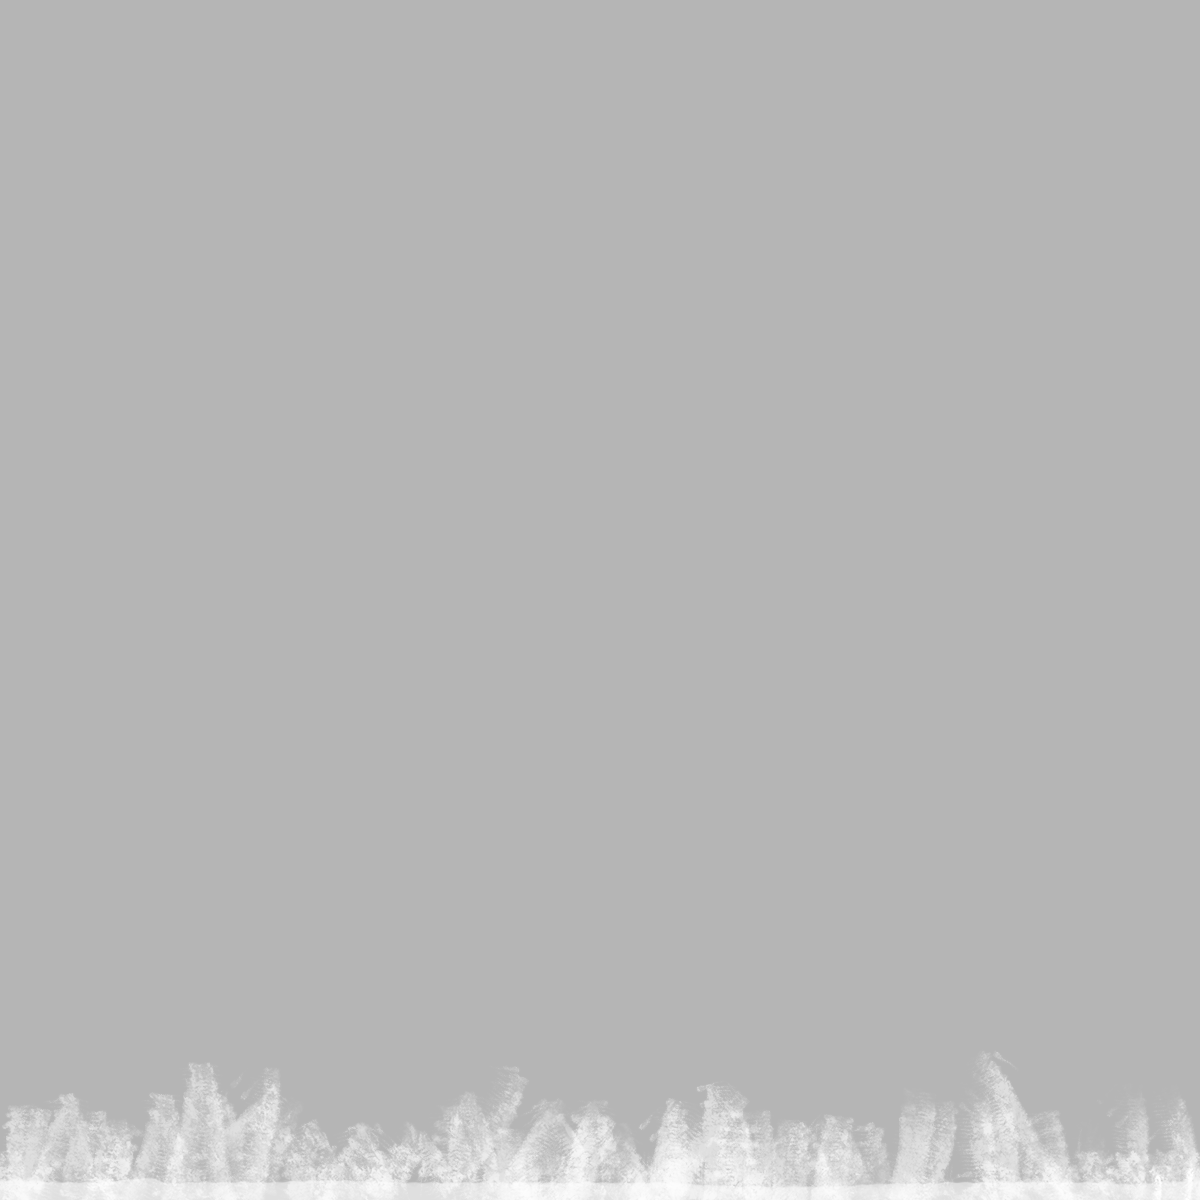
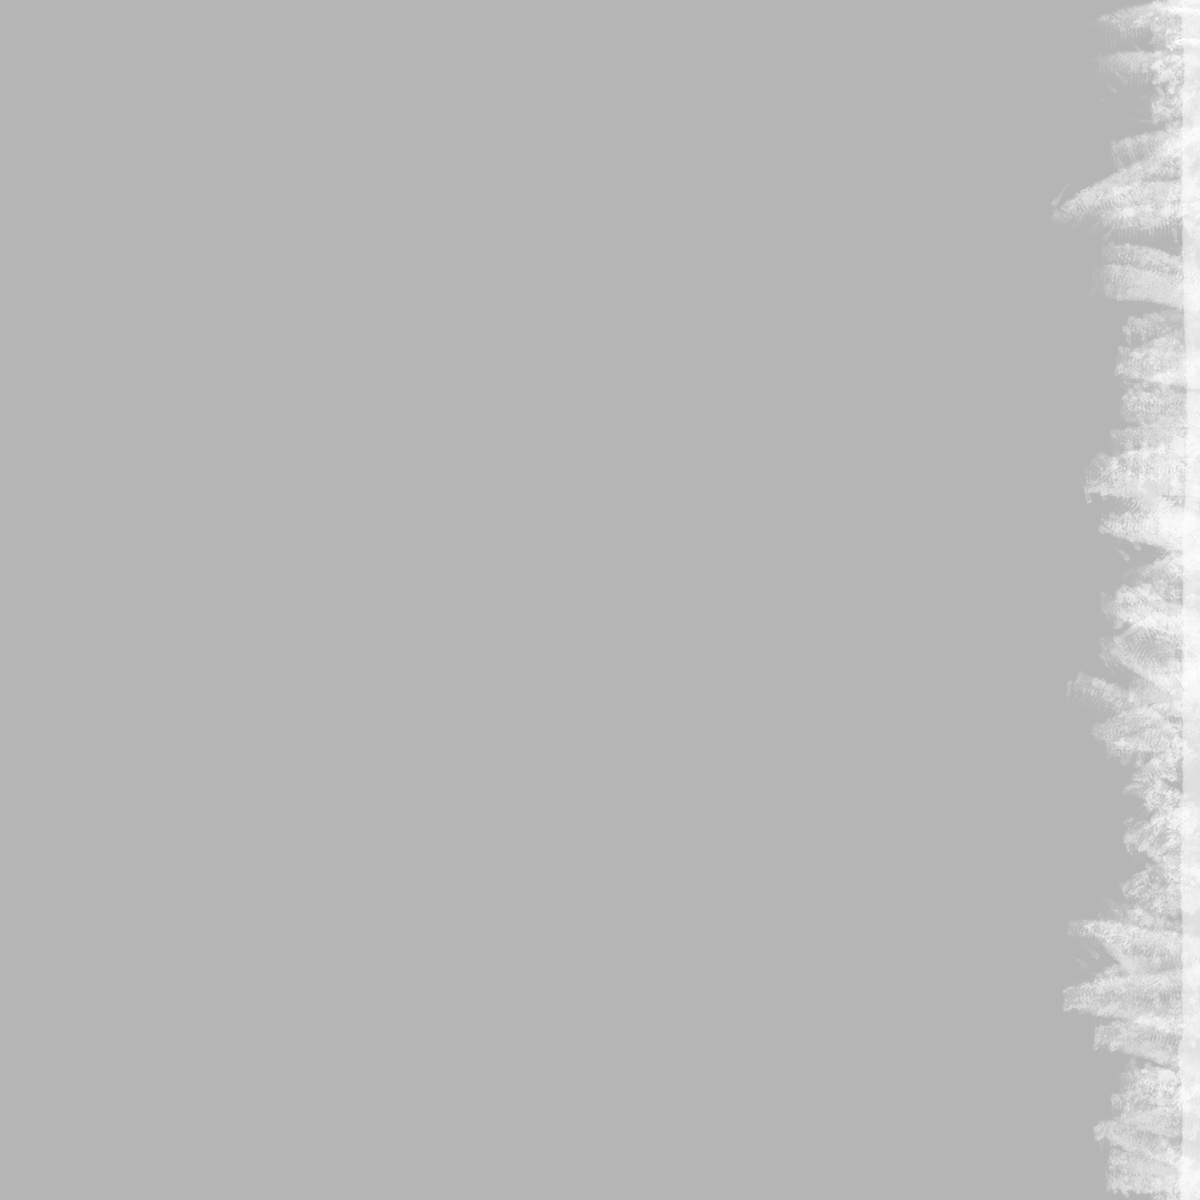
got pillars moving very jankily, going to try percentage

Changed region(s): [[0.0, 0.0, 1.0, 1.0]]

diff --git a/client/src/pages/main/main.js b/client/src/pages/main/main.js
@@ -8,6 +8,8 @@ import moment from 'moment'
 import pillarTest from '../../assets/pillarTest.png'
 import pillarTop from   '../../assets/pillarTop.png'
 import CrawlingBoxL1 from '../../assets/CrawlingBoxL-1.png'
+import CrawlingBoxT1 from '../../assets/CrawlingBoxT-1.png'
+
 import CrawlingBox2 from '../../assets/CrawlingBox-2.png'
 import CrawlingBox3 from '../../assets/CrawlingBox-3.png'
 
@@ -26,7 +28,9 @@ export default class Main extends React.Component {
     
   p1CBoxArr = [CrawlingBoxL1,CrawlingBox2,CrawlingBox3]
 
-  
+  randomNum = (max) =>{
+    return Math.floor(Math.random() * max)
+  }
 
   state = {
     wordCount:0,
@@ -34,10 +38,6 @@ export default class Main extends React.Component {
     limitReached:false, 
     date:moment().format("MM/DD/YYYY"),
     isVisible: true, 
-    pillar1CharLimit:94,
-    pillar2CharLimit:590,
-    pillar3CharLimit:1035,
-    pillar4CharLimit:1400,
     pillar1WordLimit:100,
     pillar2WordLimit:200,
     pillar3WordLimit:300,
@@ -57,13 +57,13 @@ export default class Main extends React.Component {
     }
     pillarLeftStyleHeight = () =>{
       const testStyle = {
-        height:`${(this.state.wordCount +1)*5.5}px`,
-        bottom:`${(this.state.wordCount +5)*5.5}px`,
-        opacity:`${this.state.wordCount/80}`
+        height:`${(this.state.wordCount +1)*3.8}px`,
+        bottom:`${(this.state.wordCount +1)*3.8}px`,
+        opacity:`${this.state.wordCount/40}`
       };
       const limit = {
-        height:`580px`,
-        bottom:'580px'
+        height:`380px`,
+        bottom:'380px'
       }
       if (this.state.wordCount <= this.state.pillar1WordLimit){
         return testStyle
@@ -94,40 +94,38 @@ export default class Main extends React.Component {
     }
     pillarRightStyleHeight = () =>{
       const testStyle = {
-        height:`${(-842 + this.state.charCount )*3}px`,
-        opacity:`${this.state.charCount/80}`
+        height:`${(-200 + this.state.wordCount )*3.6}px`
       };
       const start = {
-        height:`0px`,
+        height:`0px`
       }
       const limit = {
-        height:`100%`,
+        height:`380px`,
       }
-      if (this.state.charCount <= this.state.pillar2CharLimit){
+      if (this.state.wordCount <= this.state.pillar2WordLimit){
         return start
-      } else if(this.state.charCount >= this.state.pillar2CharLimit && this.state.charCount <= this.state.pillar3CharLimit  ) {
+      } else if(this.state.wordCount >= this.state.pillar2WordLimit && this.state.wordCount <= this.state.pillar3WordLimit  ) {
         return testStyle
       }
       else{
         return limit
       }
     }
-
     pillarBottomStyleWidth = () =>{
       const testStyle = {
-        width:`${-3100+(this.state.charCount +1)*3}px`,
-        left:`${4300 -( this.state.charCount*3)}px`,
-        opacity:`${this.state.charCount/80}`
+        width:`${-3850+(this.state.wordCount +1)*12.7}px`,
+        left:`${5100 -( this.state.wordCount*12.7)}px`,
+        opacity:`${this.state.wordCount/600}`
       };
       const start = {
         width:`0px`,
       }
       const limit = {
-        width:`1103px`,left:'100px'
+        width:`1303px`,left:'20px'
       }
-      if (this.state.charCount <= this.state.pillar3CharLimit){
+      if (this.state.wordCount <= this.state.pillar3WordLimit){
         return start
-      } else if(this.state.charCount >= this.state.pillar3CharLimit && this.state.charCount <= this.state.pillar4CharLimit  ) {
+      } else if(this.state.wordCount >= this.state.pillar3WordLimit && this.state.wordCount <= this.state.pillar4WordLimit  ) {
         return testStyle
       }
       else{
@@ -154,27 +152,21 @@ export default class Main extends React.Component {
         });
       }, 20);
     }
-
-    // componentDidUpdate(){
-    //   this.set
-    // }
     render(){
-  // console.log(this.pillarRightStyleHeight())
+  console.log(this.pillarRightStyleHeight())
   // console.log(this.pillarTopStyleWidth())
-  console.log(this.pillarBottomStyleWidth())
-
+  // console.log(this.pillarBottomStyleWidth())
 
       return (
         <div className="main">
           <Header pose={this.state.isVisible ? 'visible' : 'hidden'} className="main__header">
             Not Your Thoughts
           </Header>
-          <Prompt className="main__prompt" />
+          <Prompt />
           <div className="main__pillar-top-container">
             <img className="main__pillar-top-outline" src={pillarTop} alt='pillar Shadow thing'></img>
-            <div className="main__pillar-top" style={this.pillarTopStyleWidth()}></div>
-            {/* <img src={this.CrawlingBox1} className="main__pillar-top" style={this.pillarTopStyleWidth()} alt="william"></img>                 */}
-
+            {/* <div className="main__pillar-top" style={this.pillarTopStyleWidth()}></div> */}
+            <img src={CrawlingBoxT1} className="main__pillar-top" style={this.pillarTopStyleWidth()} alt="william"></img>                
           </div>
 
           <div className="main__pillars-date-goal-wordcount-textarea-container">

diff --git a/client/src/pages/main/main.scss b/client/src/pages/main/main.scss
@@ -4,19 +4,14 @@
 @import '../../styles/variables.scss';
 @import '../../styles/base.scss';
 
-
-
 body{
     background-color:black;
-
 }
-
 .box {
     width: 100px;
     height: 100px;
     background: #ff1c68;
   }
-
 .main{
     font-family: 'Maven Pro', sans-serif;
     display:flex;
@@ -26,16 +21,16 @@ body{
     flex-direction: column;
 
     &__header{
-        font-size:3.8rem;
-        margin-top:100px;
+        font-size:3.1rem;
+        margin-top:35px;
         margin-bottom:36px;
         transform-origin: 50% 50%;
         text-shadow: 2px 1px 5px silver;
     }
     &__goal{
+        display:flex;
         font-size:1.5rem;
     }
-    
     &__limit{
         color:silver;
     }
@@ -43,23 +38,30 @@ body{
         overflow:hidden;
         width:60%;
         color:red;
+        margin:0;
+    }
+    &__date{
+        font-size:1.2rem;
+    }
+    &__wordcount{
+        font-size:1.2rem;
     }
     &__pillars-date-goal-wordcount-textarea-container{
-        // border:1px solid white;
         display:flex;
         flex-direction:row;
         justify-content: space-between;
-        height:600px;
+        height:400px;
         width:80%;
     }
     &__date-goal-wordcount-textarea-container{
         display:flex;
         flex-direction: column;
-        // border:1px solid white;
+        height:100%;
         width:80%;
     }
     &__pillar-left-container{
         width:20%;
+        height:100%;
     }
     &__pillar-left-outline{
         position:relative;
@@ -70,37 +72,35 @@ body{
     }
     &__pillar-left{
         position:relative;
-        bottom:100px;
+        bottom:80px;
         left:1px;
         // background-image:url('../../assets/Vaginabunnyrabbitglow.jpg');
-        // background-color:silver;  
-        // border:1px solid white;
         z-index: 2;
         width:99%;
-        height:100px
+        height:90px
     }
     &__pillar-top-container{
         width:80%;
-        height:150px;
+        height:100px;
+
     }
     &__pillar-top-outline{
         position:relative;
         width:100%;
         z-index:3;
         height:100%;
-        // border:1px solid red;
     }
     &__pillar-top{
         position:relative;
         top:-100%;
         width:10px;
-        background-color:silver;
+        // background-color:silver;
         height:80%;
         z-index: 2;
     }
     &__pillar-bottom-container{
         width:80%;
-        height:150px;
+        height:120px;
         // border:1px solid red;
     }
     &__pillar-bottom-outline{
@@ -112,7 +112,6 @@ body{
     }
     &__pillar-bottom{
         background-color:silver;
-
         position:relative;
         overflow: hidden;
         top:-100%;
@@ -125,6 +124,8 @@ body{
     &__pillar-right-container{
         // border:1px solid red;
         width:20%;
+        height:100%;
+
     }
     &__pillar-right-outline{
         position:relative;
@@ -135,19 +136,11 @@ body{
     }
     &__pillar-right{
         position:relative;
-        top:-590px;
+        top:-385px;
         background-color:silver;
         border-bottom:1px solid white;
-        border-radius:50%;
-        z-index: 2;
+        z-index: 1;
         width:99%;
-
-    }
-   
-    &__prompt{
-        overflow:hidden;
-        width:80%;
-        color:red;
     }
     &__date-goal-wordcount-container{
         display:flex;
@@ -161,7 +154,7 @@ body{
         justify-content: center;
         width:100%;
         font-size:1.4rem;
-        height:400px;
+        height:80%;
         resize:none;
         border-radius:4px;
         padding:13px;
@@ -169,7 +162,7 @@ body{
         box-shadow: none;
         border:1px solid grey;
         background-color:black;
-        color:white;
+        color:silver;
         outline:none;
     }
    

diff --git a/client/src/pages/landing/landing.js b/client/src/pages/landing/landing.js
@@ -2,11 +2,21 @@ import React from 'react';
 import { NavLink, Link } from 'react-router-dom';
 import './landing.scss'
 import Main from '../main/main'
+import {Transition} from 'react-spring/renderprops'
+import anime from 'animejs'
+
 
 export default class Landing extends React.Component {
+
+
     render() {
+        anime({
+            targets: '.landing__you-are',
+            translateX: 250
+          });
         return (
             <div className="landing">
+      
               <h2 className="landing__you-are">You are</h2>
               <h1 className="landing__title">Not Your Thoughts</h1>
                 <div className="landing__description-container">

diff --git a/client/src/components/prompt/prompt.js b/client/src/components/prompt/prompt.js
@@ -3,6 +3,7 @@ import { BrowserRouter, Route, Switch } from 'react-router-dom';
 import './prompt.scss';
 
 
+
 export default class Prompt extends React.Component {
   randomNum = (max) =>{
     return Math.floor(Math.random() * max)
@@ -15,7 +16,7 @@ export default class Prompt extends React.Component {
       "Reflect on some obstacles you have recently overcome"
     ]
 
-     promptContent = this.promptArr[this.randomNum(4)]
+     promptContent = this.promptArr[this.randomNum(this.promptArr.length-1)]
 
     render(){
         return (

diff --git a/client/src/pages/landing/landing.scss b/client/src/pages/landing/landing.scss
@@ -19,8 +19,20 @@
         text-align:center;
         font-size:3.5rem;
         margin-top:100px;
+        // margin-left:300px;
+        // transition: opacity 4s;
 
     }
+
+    &__you-are:hover{
+        // margin-right:100px;
+        // transition: margin-right 2s ease-in-out;
+        opacity:1;
+
+        transition: opacity 2s ease-in-out ;
+
+    }
+
 
     &__title{
         font-size:4.5rem;

diff --git a/client/src/components/prompt/prompt.scss b/client/src/components/prompt/prompt.scss
@@ -1,0 +1,12 @@
+@import '../../styles/mixins.scss';
+@import url('https://fonts.googleapis.com/css?family=Maven+Pro:400,500,700,900&display=swap');
+@import '../../styles/mixins.scss';
+@import '../../styles/variables.scss';
+@import '../../styles/base.scss';
+
+.prompt{
+    display:flex;
+    justify-content: center;
+    text-align:center;
+    width:60%;
+}
